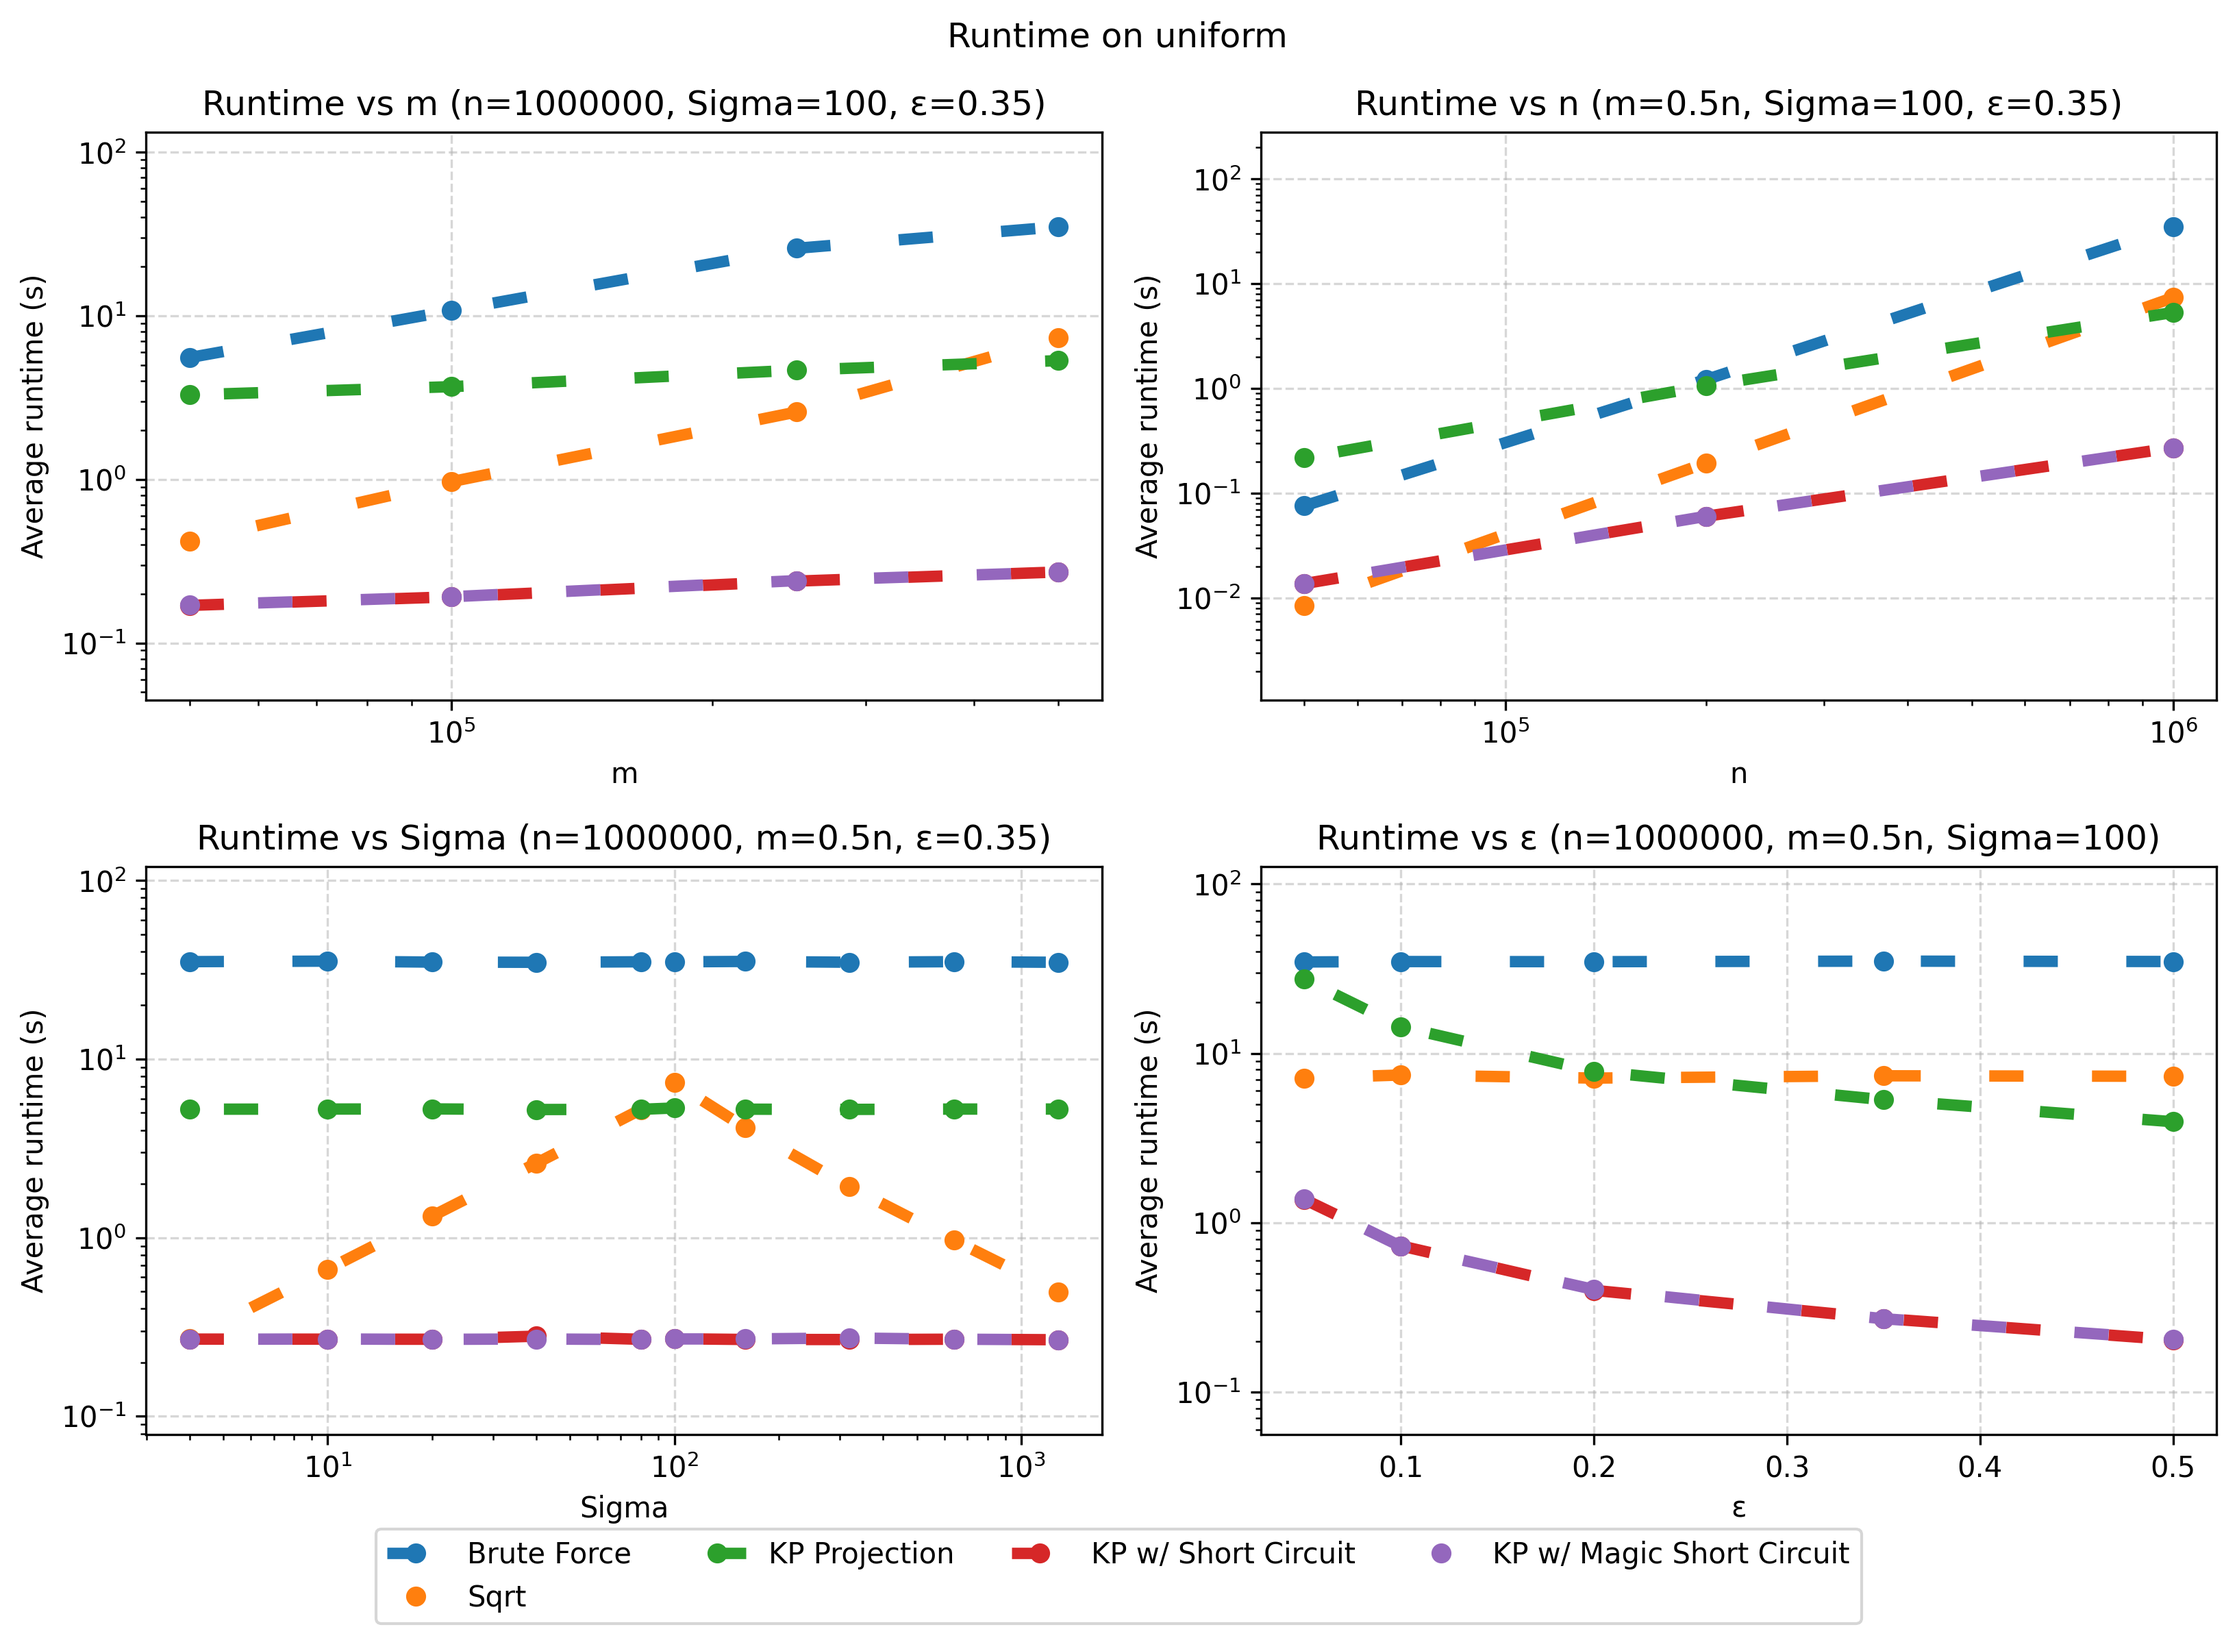
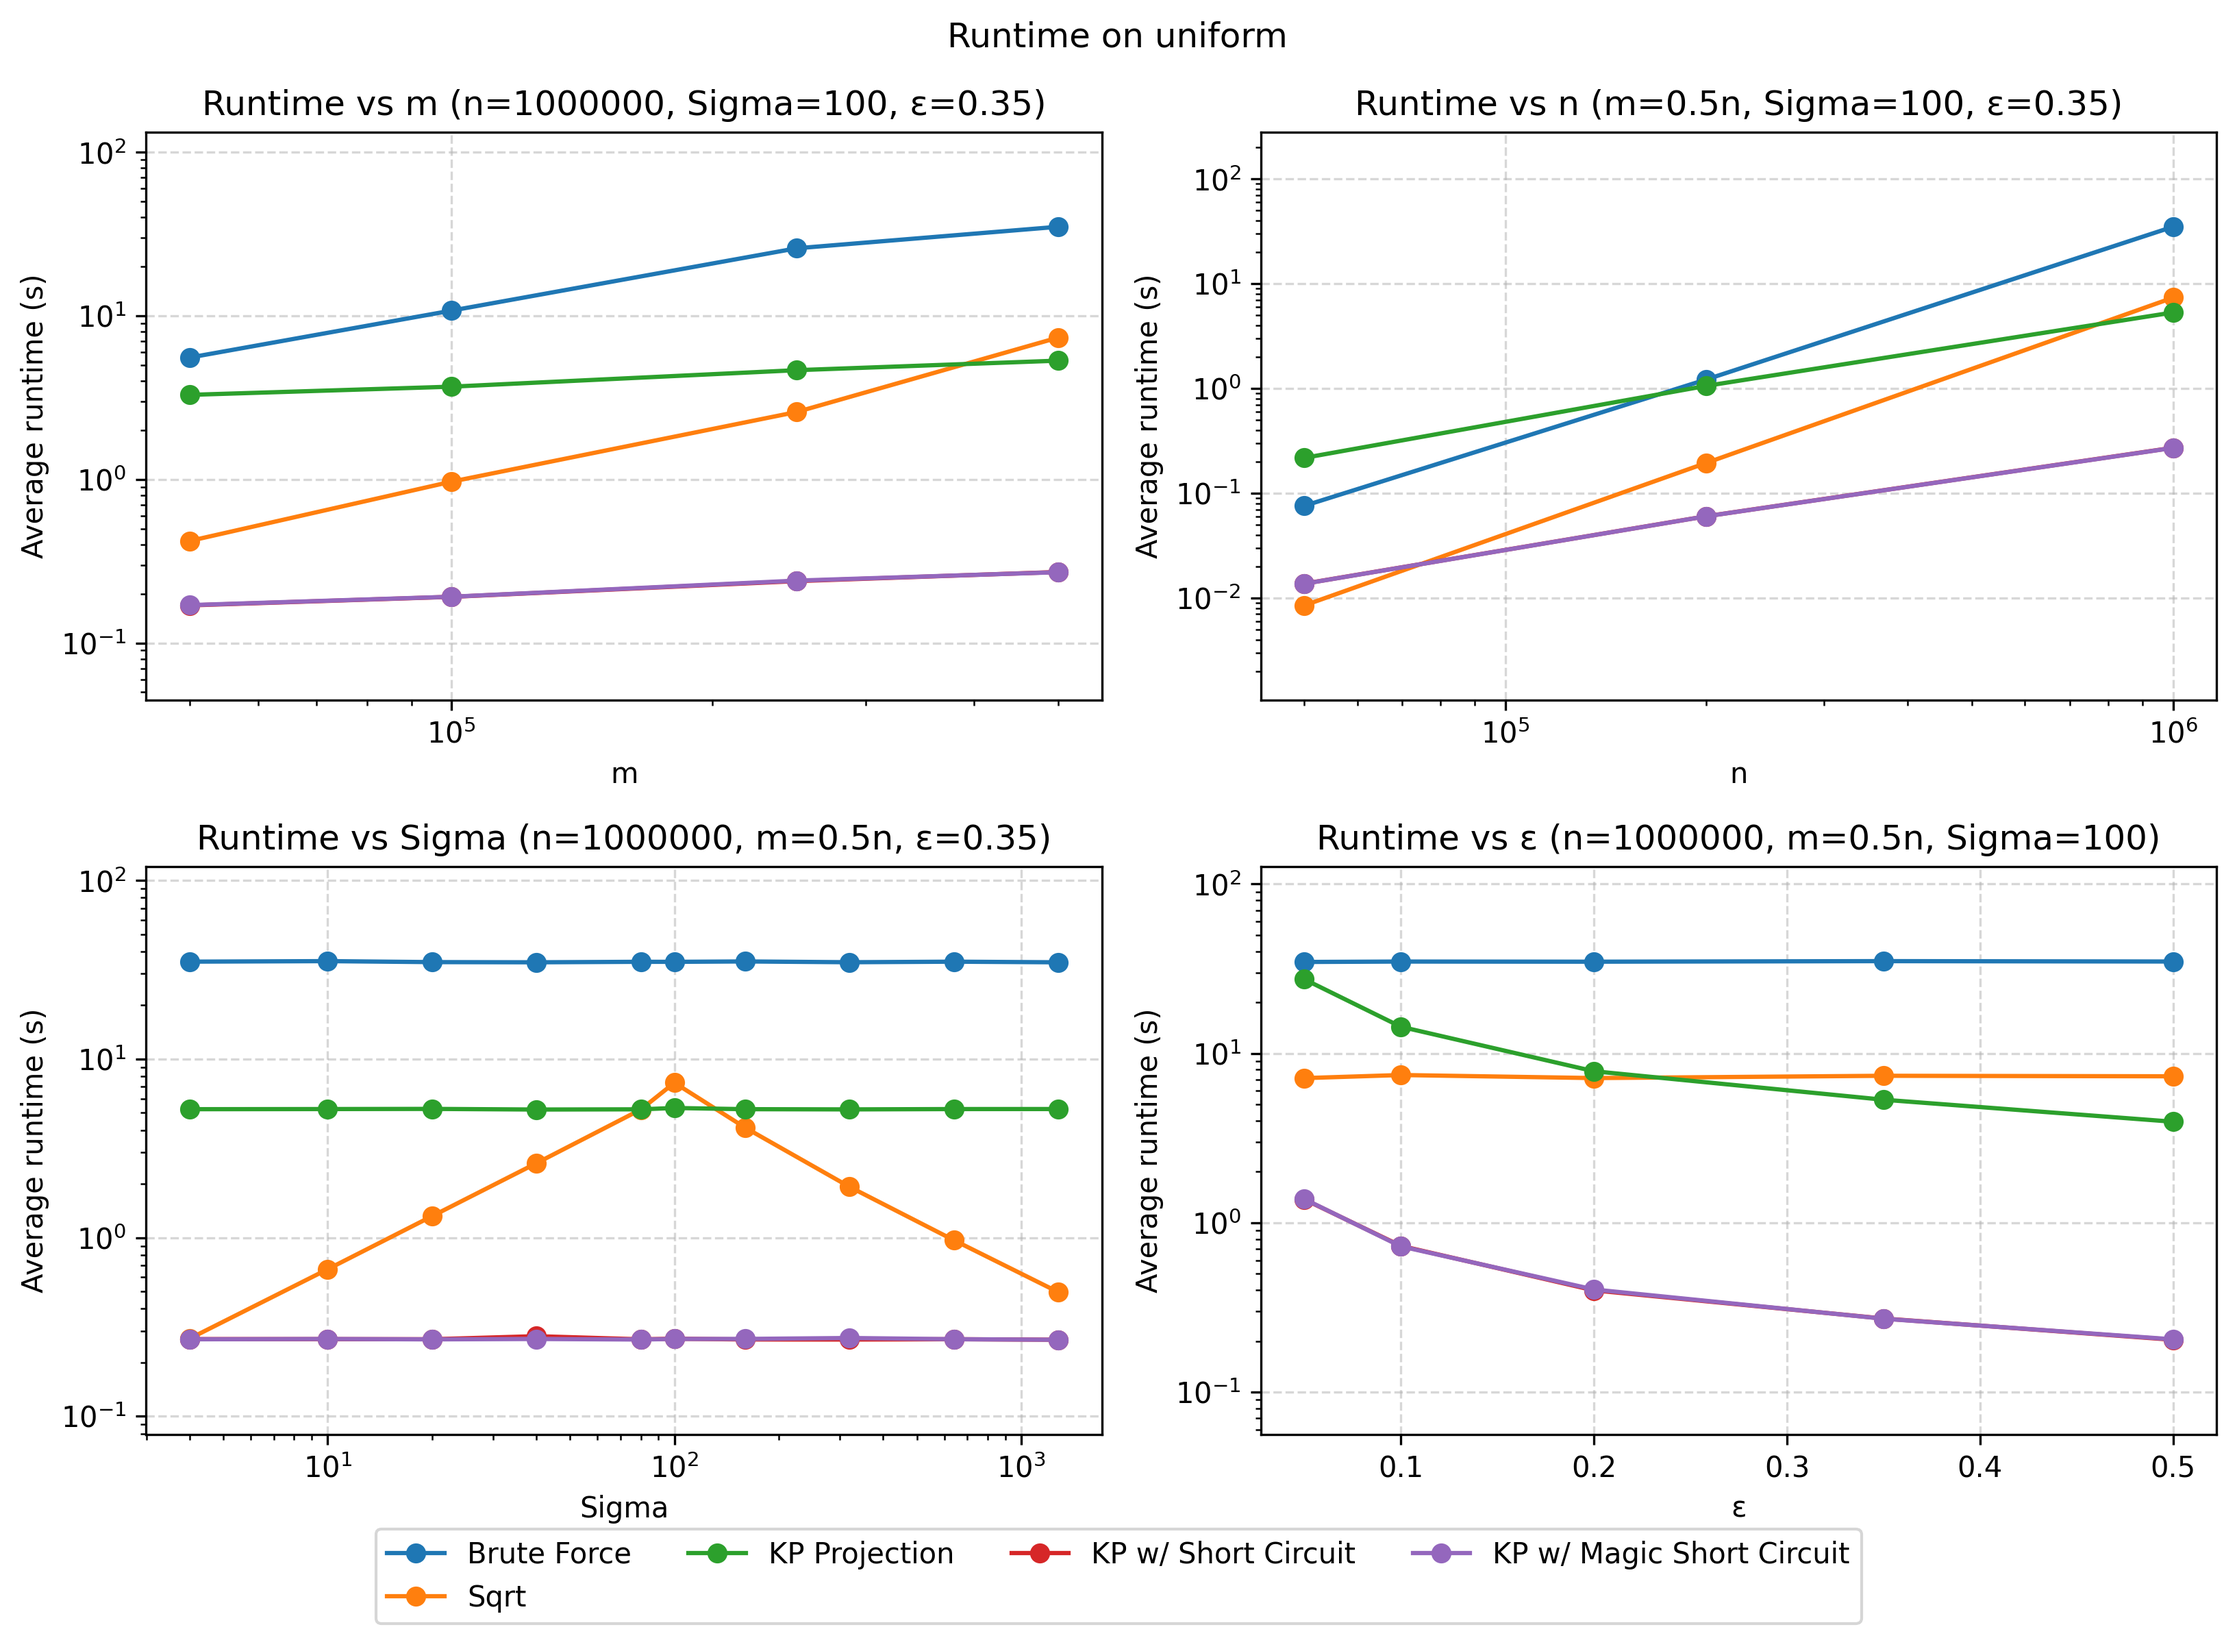
Improve plotting overlaps

diff --git a/src/plotting_new.py b/src/plotting_new.py
@@ -5,7 +5,7 @@ import matplotlib.pyplot as plt
 # -------------------------------------------------
 # Load data and define short algorithm names
 # -------------------------------------------------
-GEN_NAME = "cyclic"
+GEN_NAME = "uniform"
 df = pd.read_csv("../results/" + GEN_NAME + ".csv").copy()
 
 name_map = {
@@ -42,21 +42,40 @@ baseline_m_frac = 0.02 if GEN_NAME == "k_difs" else 0.5
 # -------------------------------------------------
 # Helper to plot group on a given axis
 # -------------------------------------------------
-def plot_group_on_ax(ax, data, algos, x_col, metric,
-                     x_label, title, log_x=False, log_y=False, xticks=None, xticklabels=None):
+def plot_group_on_ax(
+    ax,
+    data,
+    algos,
+    x_col,
+    metric,
+    x_label,
+    title,
+    log_x=False,
+    log_y=False,
+    xticks=None,
+    xticklabels=None,
+    dupes : list[tuple[str, ...]] = [],
+):
 
     for i, algo in enumerate(algos):
         cur = data[data["short_name"] == algo].sort_values(x_col)
         # print(cur)
         if cur.empty:
             continue
+
+        linestyle = "solid"
+        for dup_tup in dupes:
+            if algo in dup_tup:
+                ind = dup_tup.index(algo)
+                linestyle = (ind % len(dup_tup) * 2, (2, 2 * (len(dup_tup)-1)))
+
         ax.plot(
             cur[x_col],
             cur[metric],
             marker="o",
             label=algo,
-            linestyle=(i % 3 * 3, (3, 6)),
-            linewidth=4,
+            linestyle=linestyle,
+            # linewidth=4,
         )
 
     if log_x:
